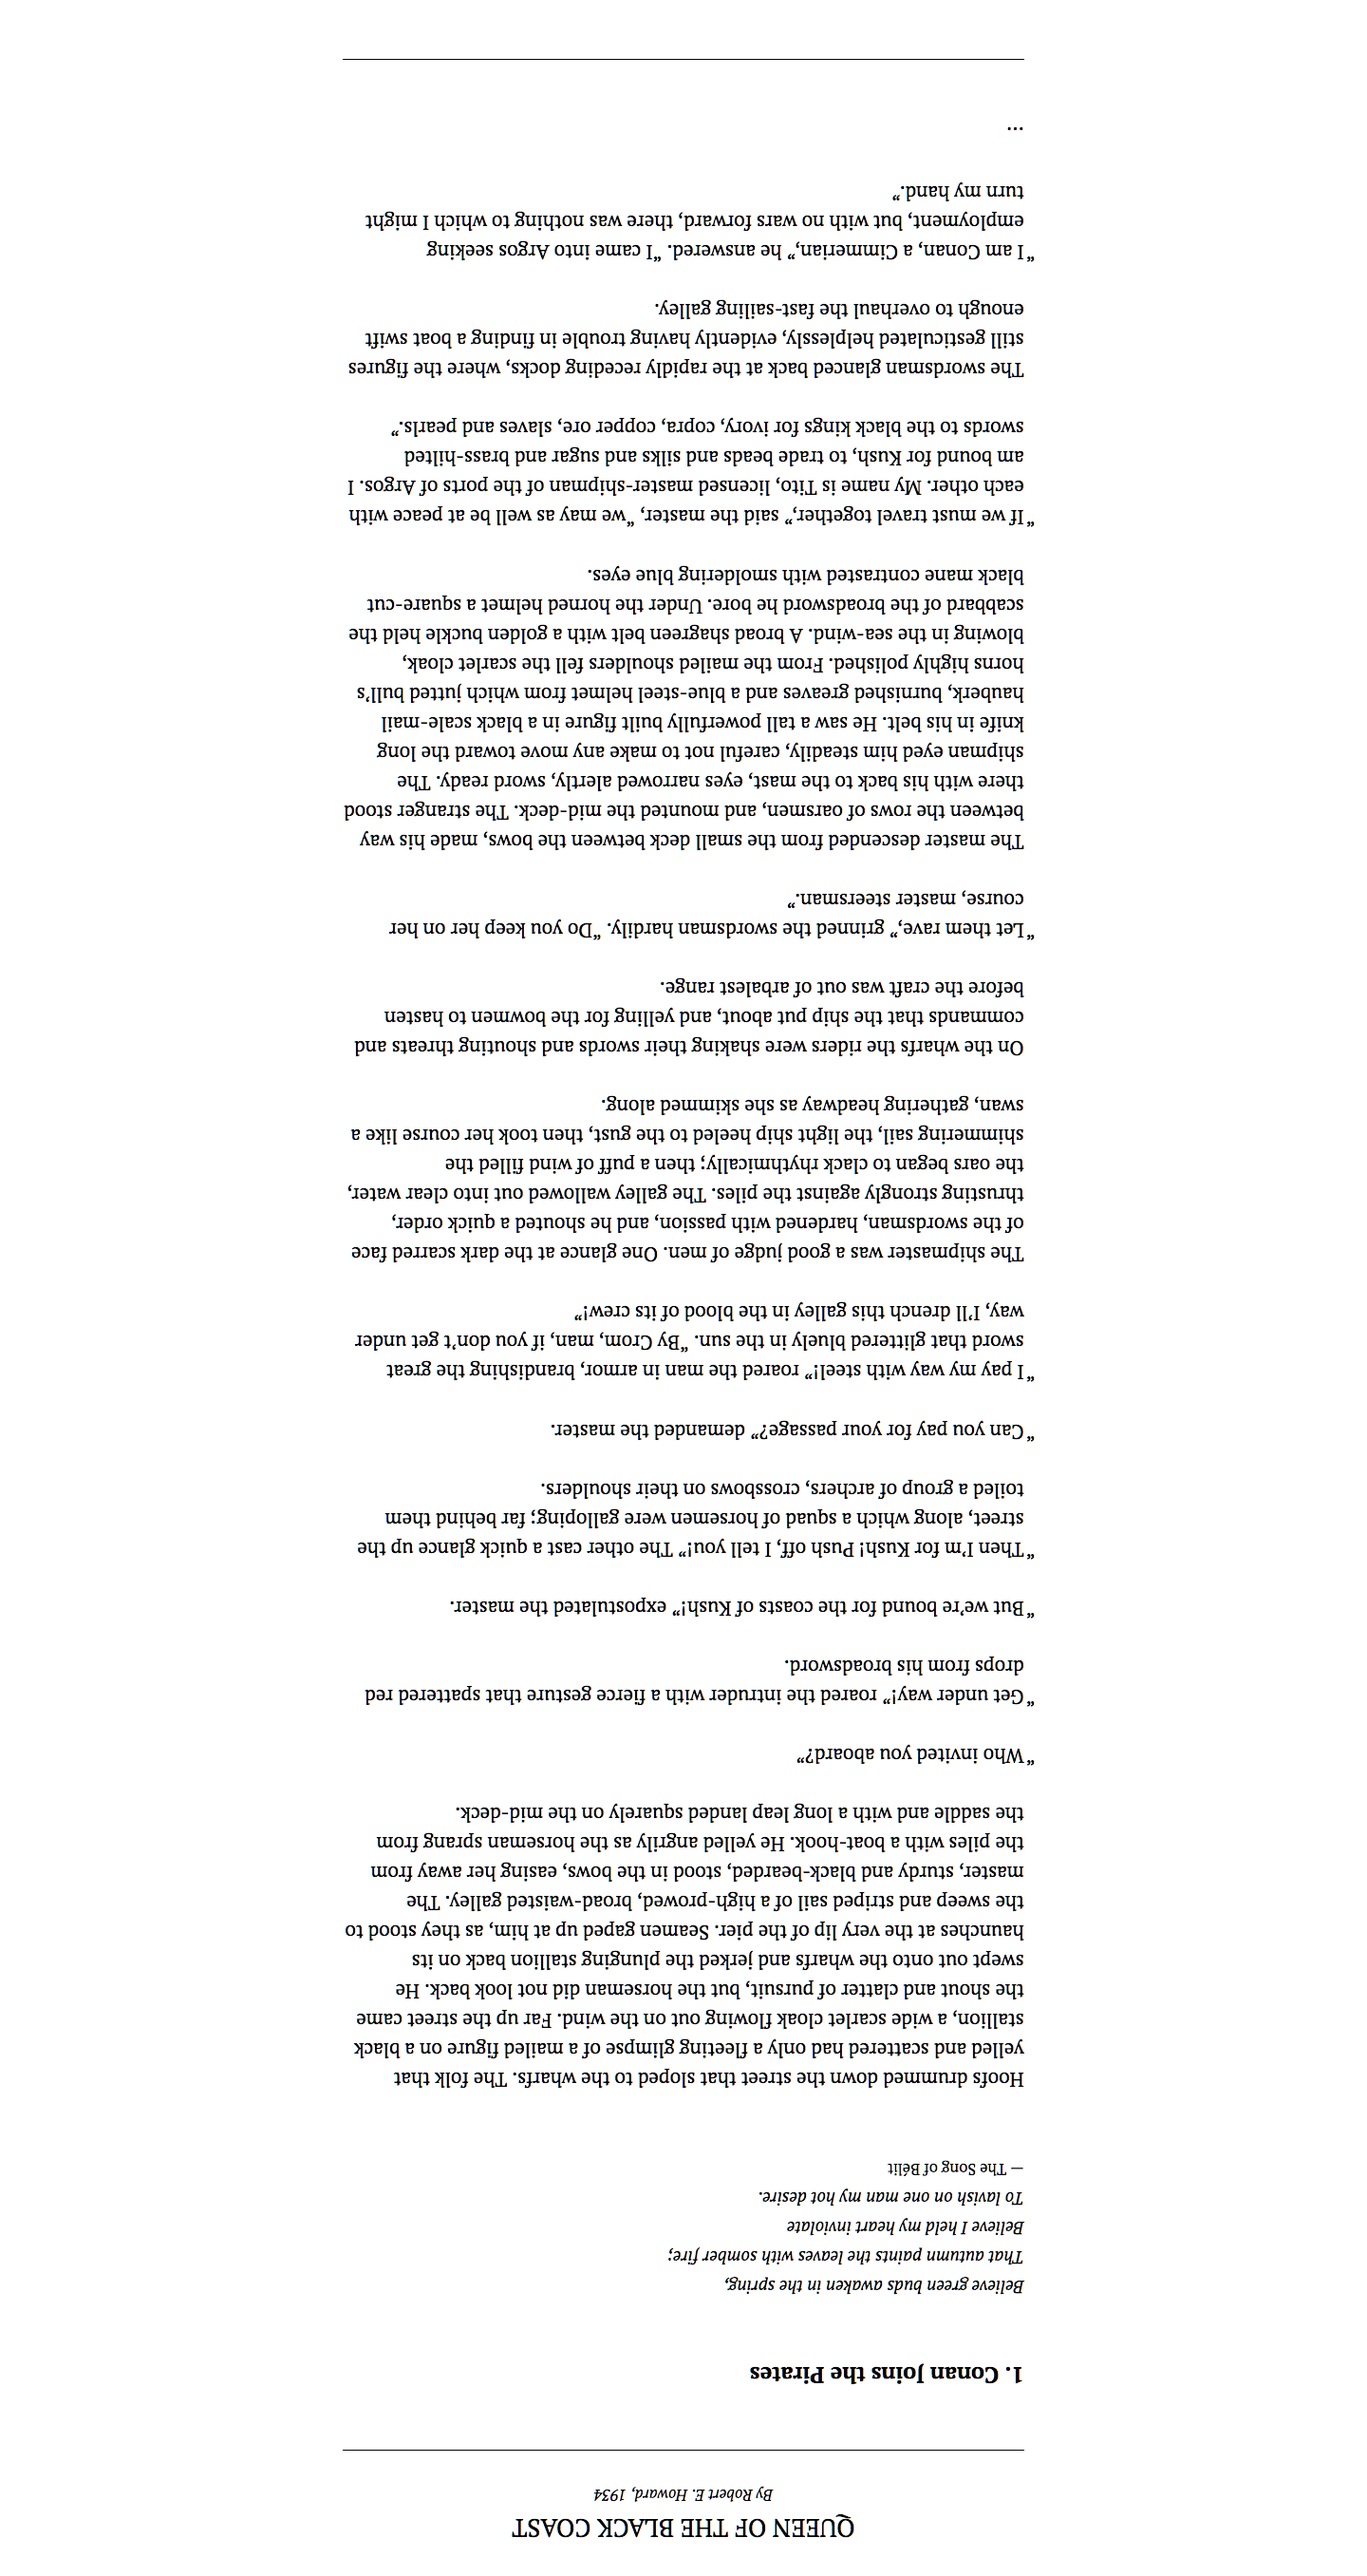
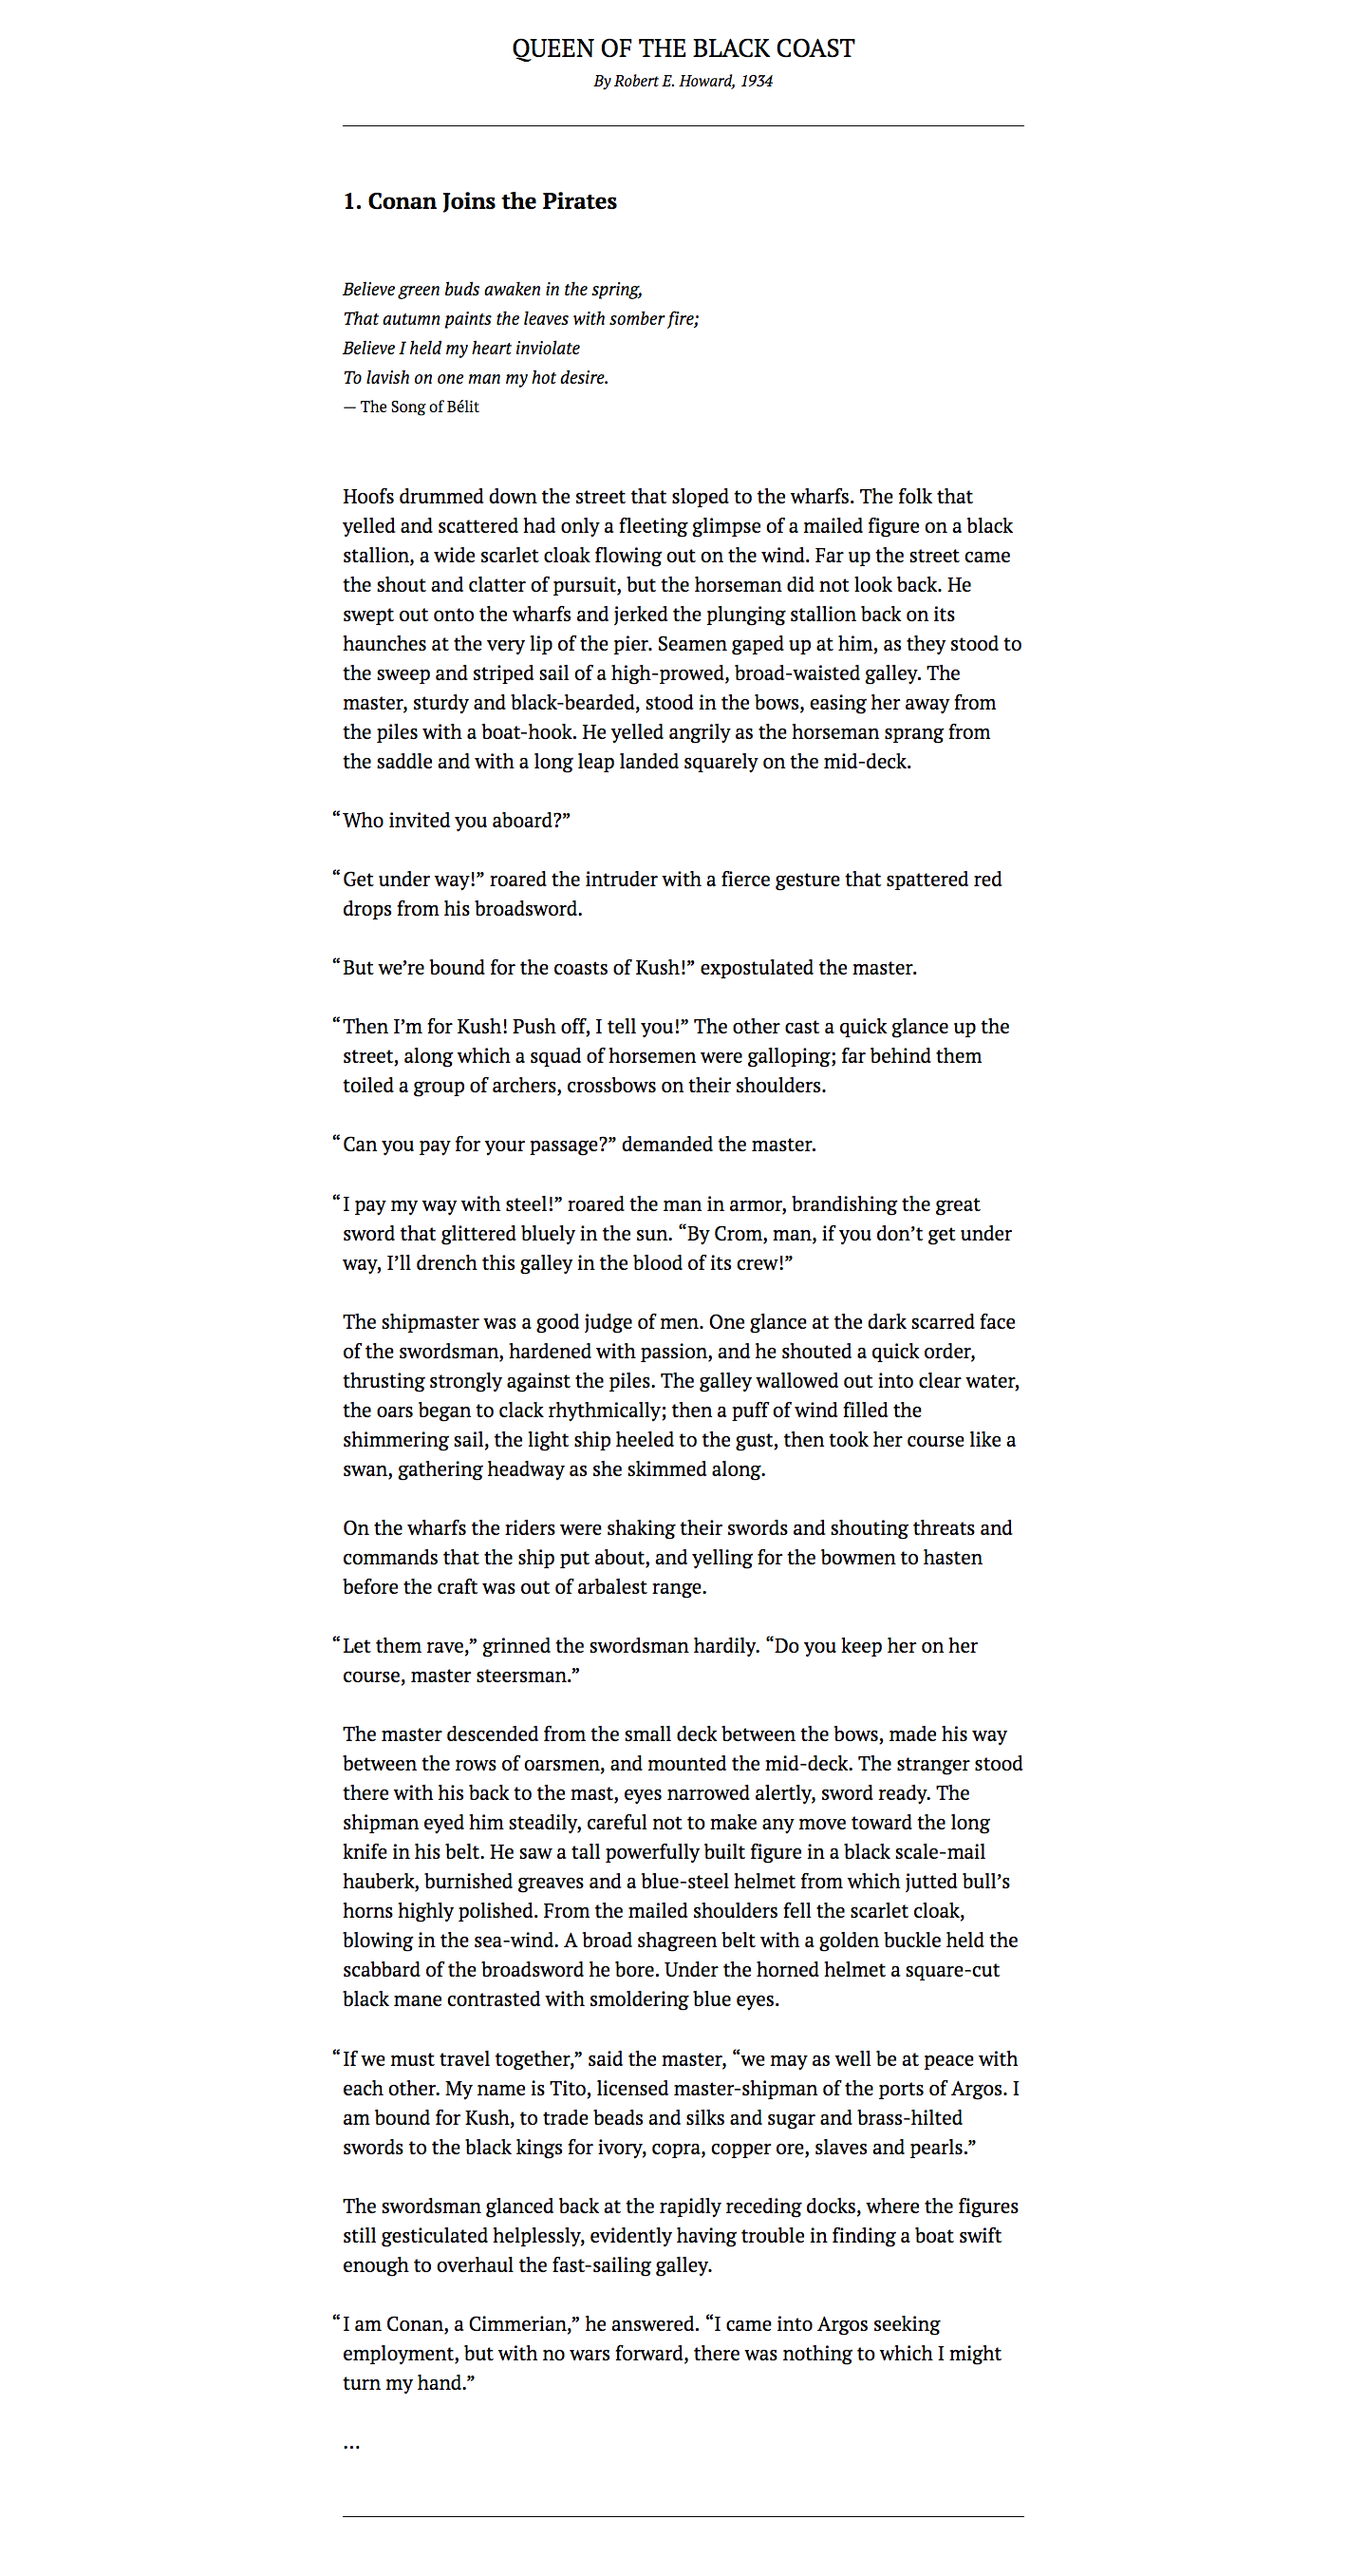
hang punc

Changed region(s): [[0.25, 0.0619, 0.75, 0.9292], [0.375, 0.9602, 0.625, 0.9912], [0.375, 0.0, 0.625, 0.031]]

diff --git a/index.html b/index.html
@@ -26,18 +26,18 @@
 
     <p>Hoofs drummed down the street that sloped to the wharfs. The folk that yelled and scattered had only a fleeting glimpse of a mailed figure on a black stallion, a wide scarlet cloak flowing out on the wind. Far up the street came the shout and clatter of pursuit, but the horseman did not look back. He swept out onto the wharfs and jerked the plunging stallion back on its haunches at the very lip of the pier. Seamen gaped up at him, as they stood to the sweep and striped sail of a high-prowed, broad-waisted galley. The master, sturdy and black-bearded, stood in the bows, easing her away from the piles with a boat-hook. He yelled angrily as the horseman sprang from the saddle and with a long leap landed squarely on the mid-deck.</p>
     <p><span class="hang-punc">“</span>Who invited you aboard?”</p>
-    <p>“Get under way!” roared the intruder with a fierce gesture that spattered red drops from his broadsword.</p>
-    <p>“But we’re bound for the coasts of Kush!” expostulated the master.</p>
-    <p>“Then I’m for Kush! Push off, I tell you!” The other cast a quick glance up the street, along which a squad of horsemen were galloping; far behind them toiled a group of archers, crossbows on their shoulders.</p>
-    <p>“Can you pay for your passage?” demanded the master.</p>
-    <p>“I pay my way with steel!” roared the man in armor, brandishing the great sword that glittered bluely in the sun. “By Crom, man, if you don’t get under way, I’ll drench this galley in the blood of its crew!”</p>
+    <p><span class="hang-punc">“</span>Get under way!” roared the intruder with a fierce gesture that spattered red drops from his broadsword.</p>
+    <p>But we’re bound for the coasts of Kush!” expostulated the master.</p>
+    <p>Then I’m for Kush! Push off, I tell you!” The other cast a quick glance up the street, along which a squad of horsemen were galloping; far behind them toiled a group of archers, crossbows on their shoulders.</p>
+    <p><span class="hang-punc">“</span>Can you pay for your passage?” demanded the master.</p>
+    <p><span class="hang-punc">“</span>I pay my way with steel!” roared the man in armor, brandishing the great sword that glittered bluely in the sun. “By Crom, man, if you don’t get under way, I’ll drench this galley in the blood of its crew!”</p>
     <p>The shipmaster was a good judge of men. One glance at the dark scarred face of the swordsman, hardened with passion, and he shouted a quick order, thrusting strongly against the piles. The galley wallowed out into clear water, the oars began to clack rhythmically; then a puff of wind filled the shimmering sail, the light ship heeled to the gust, then took her course like a swan, gathering headway as she skimmed along.</p>
     <p>On the wharfs the riders were shaking their swords and shouting threats and commands that the ship put about, and yelling for the bowmen to hasten before the craft was out of arbalest range.</p>
-    <p>“Let them rave,” grinned the swordsman hardily. “Do you keep her on her course, master steersman.”</p>
+    <p><span class="hang-punc">“</span>Let them rave,” grinned the swordsman hardily. “Do you keep her on her course, master steersman.”</p>
     <p>The master descended from the small deck between the bows, made his way between the rows of oarsmen, and mounted the mid-deck. The stranger stood there with his back to the mast, eyes narrowed alertly, sword ready. The shipman eyed him steadily, careful not to make any move toward the long knife in his belt. He saw a tall powerfully built figure in a black scale-mail hauberk, burnished greaves and a blue-steel helmet from which jutted bull’s horns highly polished. From the mailed shoulders fell the scarlet cloak, blowing in the sea-wind. A broad shagreen belt with a golden buckle held the scabbard of the broadsword he bore. Under the horned helmet a square-cut black mane contrasted with smoldering blue eyes.</p>
-    <p>“If we must travel together,” said the master, “we may as well be at peace with each other. My name is Tito, licensed master-shipman of the ports of Argos. I am bound for Kush, to trade beads and silks and sugar and brass-hilted swords to the black kings for ivory, copra, copper ore, slaves and pearls.”</p>
+    <p><span class="hang-punc">“</span>If we must travel together,” said the master, “we may as well be at peace with each other. My name is Tito, licensed master-shipman of the ports of Argos. I am bound for Kush, to trade beads and silks and sugar and brass-hilted swords to the black kings for ivory, copra, copper ore, slaves and pearls.”</p>
     <p>The swordsman glanced back at the rapidly receding docks, where the figures still gesticulated helplessly, evidently having trouble in finding a boat swift enough to overhaul the fast-sailing galley.</p>
-    <p>“I am Conan, a Cimmerian,” he answered. “I came into Argos seeking employment, but with no wars forward, there was nothing to which I might turn my hand.”</p>
+    <p><span class="hang-punc">“</span>I am Conan, a Cimmerian,” he answered. “I came into Argos seeking employment, but with no wars forward, there was nothing to which I might turn my hand.”</p>
     <p>…</p>
     <hr>
   </article>
